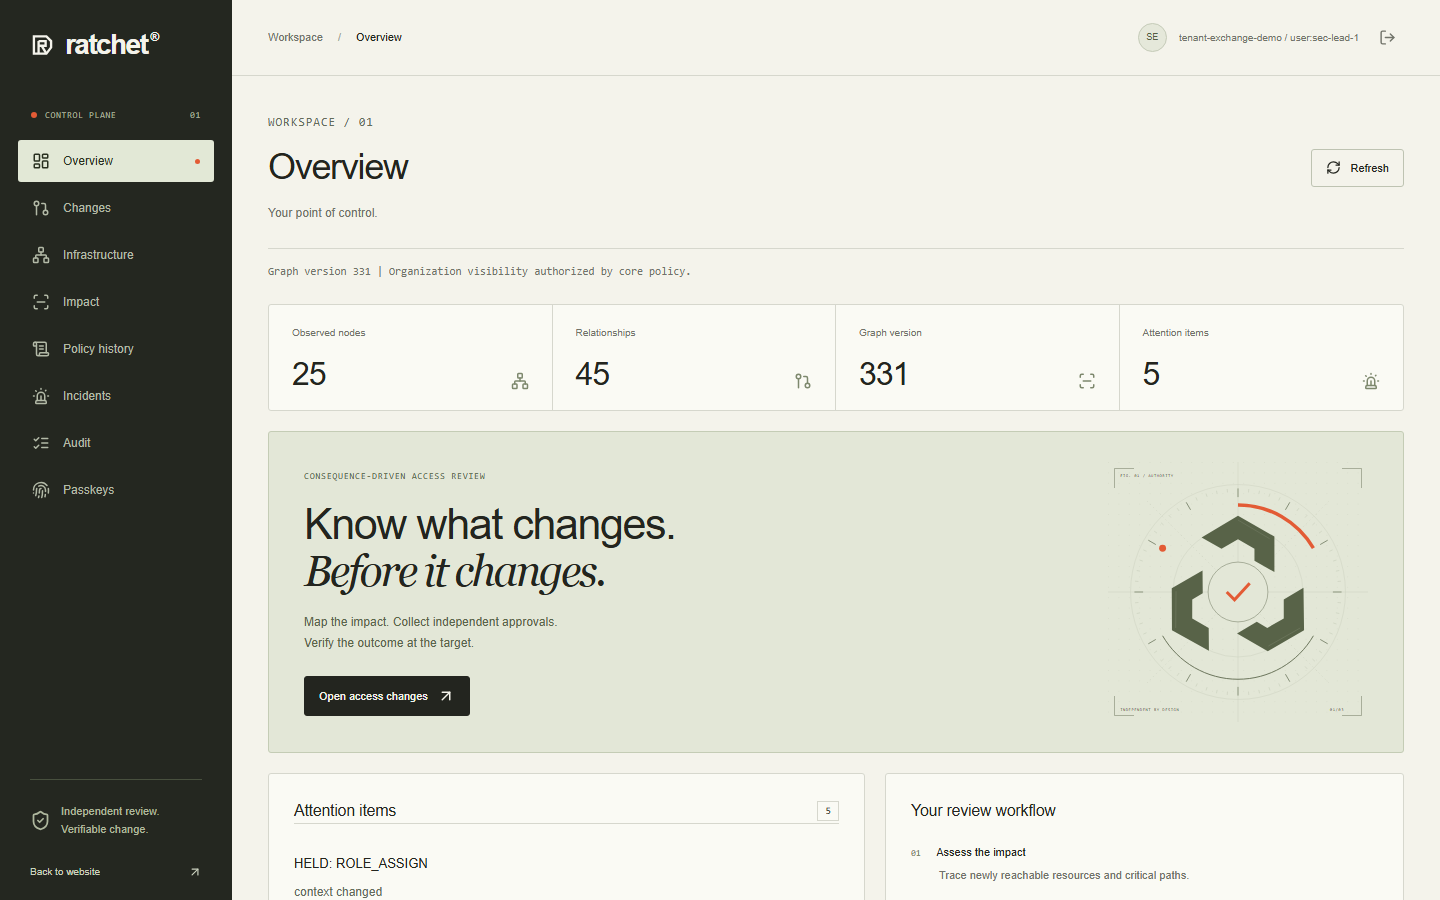
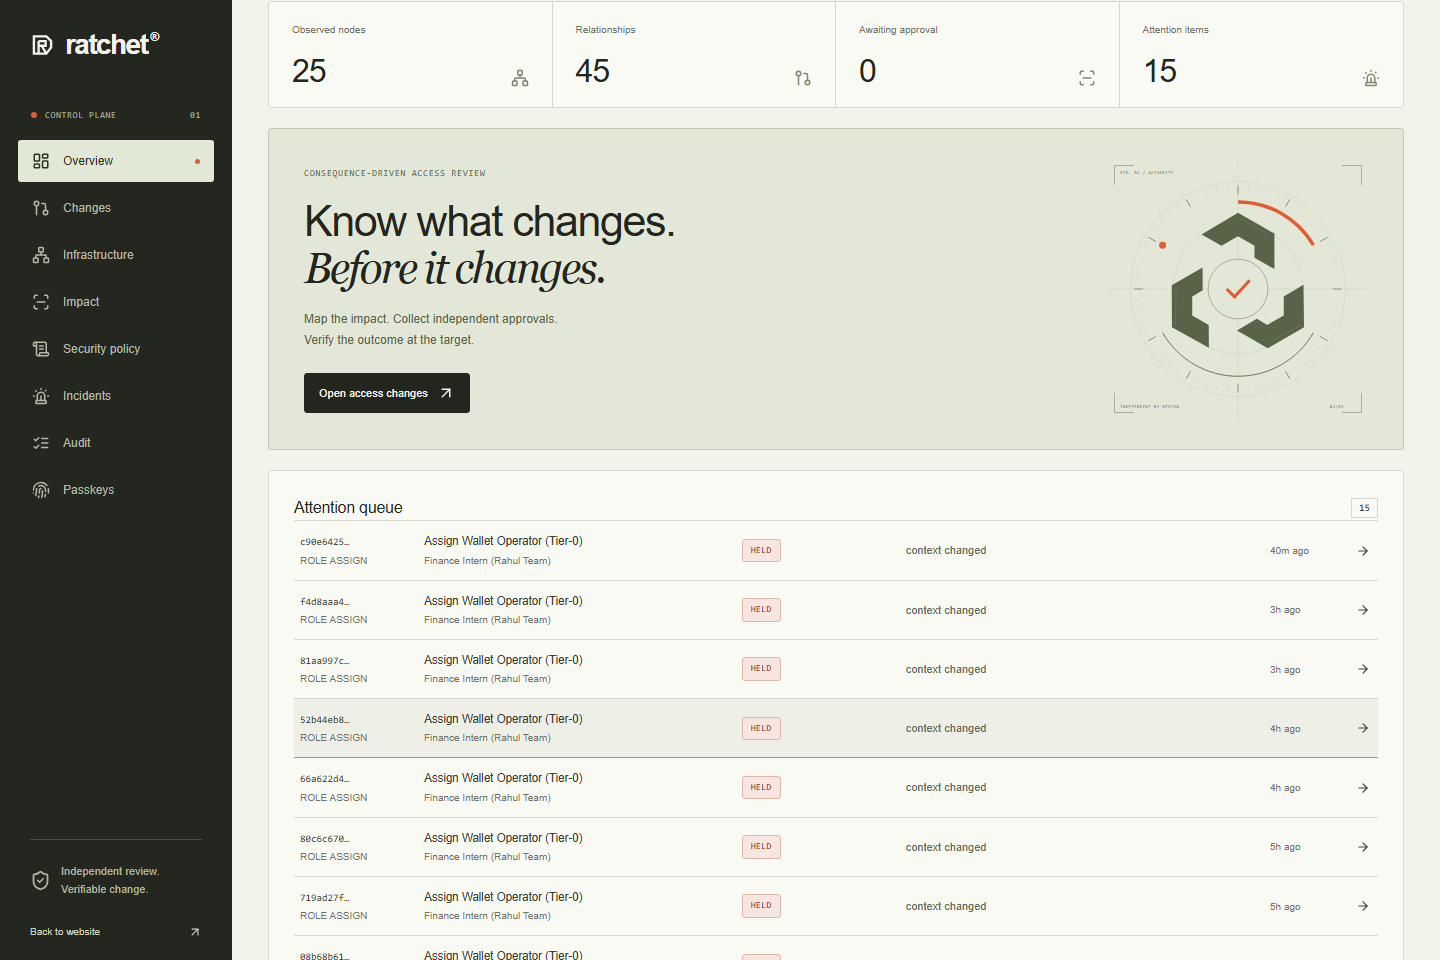
docs(readme): add the four pillars and place console screenshots in context
- Add a section for the four core capabilities from the PRD: Independent
  Security Authority, Permission Change Review, Impact and Blast-Radius Review
  and Emergency Containment, each shown with its console workspace
- Replace the screenshot gallery with images placed beside the text they
  illustrate: policy rules and Authority, change review and decision evidence,
  impact simulation, access graph and entity inspector, audit chain
  verification, restricted views, passkeys and the overview
- Refresh all screenshots from the current console and remove obsolete ones

diff --git a/README.md b/README.md
@@ -103,59 +103,94 @@ RATCHET's demo recreates this shape on a simulated crypto exchange. A compromise
 
 ---
 
-## Capabilities
+## The four pillars
 
-| Capability | Where to see it |
+RATCHET is built around four core capabilities. Each one has its own workspace in the console.
+
+### 1. Independent Security Authority
+
+The rules that protect critical systems decide who may create an administrator, change access to a critical system, change an approval rule or weaken a safeguard. Those rules are governed by a **separate authority**, not by the production systems they protect. A policy bundle or approver registry changes only when the **current** M-of-N quorum signs it, so a compromised production account cannot rewrite the protections that are supposed to constrain it.
+
+The **Security policy** workspace reads the active rules straight from the signed policy bundle the core verified. It shows them in the order they are evaluated, with the resource owners they name:
+
+<p align="center"><img src="docs/images/policy-rules.png" alt="Active policy rules parsed from the signed change.rego, in evaluation order" width="900"></p>
+
+Alongside the rules, it shows the Authority behind them: its members, the 2-of-2 quorum, the active bundle with its hash and both signatures.
+
+<p align="center"><img src="docs/images/policy-authority.png" alt="Independent Authority: members, quorum, signed policy bundle and signatures" width="900"></p>
+
+### 2. Permission Change Review
+
+Every request to increase or alter access is treated as a decision that deserves review. It covers who is asking, what they already have, what they want, why, and what the change would enable. The signed policy then decides:
+
+| Outcome | When |
 |---|---|
-| Consequence assessment: newly reachable resources, tier-0 paths, changed powers, weakened safeguards | Console › Changes and Impact |
-| Independent approval with passkeys (WebAuthn). The browser verifies the exact canonical envelope before signing. | Console › Changes › *Review exact change* |
-| Self-approval, duplicate approval and insufficient quorum refused (owner quorum 1, tier-0 quorum 2) | Demo walkthrough |
-| Signed commands to the target plus independent read-back before `EXECUTED` | Real HTTP probes change between 403 and 200 |
-| Tamper-evident, hash-linked audit ledger | Console › Audit |
-| Reviewed revocation that restores the starting access | Demo walkthrough |
-| Restricted, server-redacted views for requesters and owners | Requester cannot list the organisation graph |
-| Independent Authority: M-of-N governed policy and approver registry, separate database | `completion-a` profile, Console › Security policy |
-| Minimum-disruption containment: weighted min-cut over the graph, priority revocation actions, incident lifecycle | `internal/graph/containment.go`, Console › Incidents |
-| Typed restoration flows with fresh independent review | `internal/workflow/execution.go` |
-| Temporary-access expiry and drift-watch correction | `internal/connector`, `internal/workflow` |
-| Kubernetes RBAC adapter and fail-closed admission webhook | `internal/connector/k8s`, `cmd/ratchet-k8s-webhook` |
-| Offline audit-chain and proof-bundle verification | `ratchetctl audit verify` |
+| **Allow** | Graph analysis proves the change only reduces access |
+| **Require independent approval** | The change is legitimate but too sensitive to approve alone, for example one resource owner, or two security leads for any new tier-0 path |
+| **Hold** | More context is needed, or the situation changed after submission |
+| **Reject** | The change is not allowed, for example weakening a tier-0 safeguard |
+
+A requester can never approve their own escalation, and every approval is bound by passkey to the exact change digest. The **Changes** workspace lists every request with its decision and status. Selecting one opens the change inspector beside the table:
+
+<p align="center"><img src="docs/images/changes-workspace.png" alt="Changes workspace: request table with status filters and the change inspector" width="900"></p>
+
+### 3. Impact and Blast-Radius Review
+
+Before a sensitive change is accepted, RATCHET shows what it would actually do: which resources become reachable, whether a new route to a tier-0 asset appears, which identities could be taken over, which safeguards weaken and how the blast radius changes in each criticality tier. A reviewer never has to guess what a powerful permission means.
+
+The **Impact** workspace simulates a draft change without submitting anything. Below, granting the wallet role to the finance intern is flagged as an escalation: the tier-0 blast radius grows, the wallet signer becomes reachable, and both new critical paths are drawn with the proposed edge highlighted.
+
+<p align="center"><img src="docs/images/impact-simulation.png" alt="Impact simulation: before and after access, blast radius per tier and the new tier-0 paths" width="900"></p>
+
+The **Infrastructure** workspace explains *why*. The access graph can be focused on any entity, traced to tier-0 assets and searched by category. Any identity, role or resource opens in a shared inspector with its access, relationships, safeguards and related changes.
+
+| Relationship graph around the tier-0 wallet signer | Entity inspector |
+|:---:|:---:|
+| <img src="docs/images/infrastructure-graph.png" alt="Interactive access graph focused on the wallet signer" width="560"> | <img src="docs/images/entity-inspector.png" alt="Entity inspector for the wallet signer" width="300"> |
+
+### 4. Emergency Containment
+
+When an account, service or permission is believed to be compromised, taking power away must be faster than granting it. RATCHET computes a **minimum-disruption cut**: the smallest set of revocations, session terminations or account restrictions that removes every route to a tier-0 asset while keeping unrelated, legitimate work running. The **Incidents** workspace shows each proposed action with its reason, alongside a business-continuity view of what keeps working and what is isolated. A responder confirms the exact plan with a passkey before it runs on the priority path.
+
+```mermaid
+flowchart LR
+    A["Compromised identity"] --> B["Every route to a tier-0 asset"]
+    B --> C["Minimum-disruption cut<br/>smallest set of revocations"]
+    C --> D["Business continuity<br/>what keeps working · what is isolated"]
+    D --> E["Responder confirms the exact plan<br/>with a passkey"]
+    E --> F["Priority execution<br/>and target read-back"]
+    F --> G["Incident record<br/>in the audit ledger"]
+    G --> H["Restoration only through a<br/>fresh, independently reviewed request"]
+    style C fill:#16241b,stroke:#22c55e,color:#fff
+    style E fill:#1e1b4b,stroke:#818cf8,color:#fff
+```
+
+Containment is accountable: it records who initiated the response, what was restricted and why, and what must happen before normal access is restored.
 
 ---
 
-## Screenshots
+## Capabilities
 
-### Public site
+The landing page walks through the eight console workspaces as you scroll:
 
-| Landing page | The protocol |
-|:---:|:---:|
-| <img src="docs/images/landing-hero.png" alt="Landing page hero" width="440"> | <img src="docs/images/landing-protocol.png" alt="Landing page protocol section" width="440"> |
+<p align="center"><img src="docs/images/landing-tour.png" alt="Landing page tour: eight workspaces, one chain of evidence" width="900"></p>
 
-### Operator console
-
-| Overview, organisation-wide view of a security lead | Infrastructure: observed authorisation graph |
-|:---:|:---:|
-| <img src="docs/images/console-overview.png" alt="Console overview with graph statistics" width="440"> | <img src="docs/images/console-infrastructure.png" alt="Infrastructure graph nodes with criticality tiers" width="440"> |
-| **Audit: one wallet grant from request to verified execution** | **Sign-in** |
-| <img src="docs/images/console-audit-trail.png" alt="Hash-linked audit events for one change" width="440"> | <img src="docs/images/console-sign-in.png" alt="Console sign-in" width="440"> |
-
-The audit view shows the two separate `ChangeApprovalRecorded` events required by the tier-0 quorum, followed by `ChangeExecuting` and `ChangeExecuted`. Each event carries its own hash in the chain.
-
-### Recorded walkthrough
-
-<details>
-<summary><b>Four key moments from the recorded demo rehearsal (click to expand)</b></summary>
-<br>
-
-These frames come from the recorded presenter rehearsal and show the console's dark theme.
-
-| 1 · A valid session cannot approve its own escalation | 2 · The owner reviews the exact consequence |
-|:---:|:---:|
-| <img src="docs/images/walkthrough-1-self-approval-refused.png" alt="Self approval refused" width="440"> | <img src="docs/images/walkthrough-2-owner-review.png" alt="Owner reviewing newly reachable resources" width="440"> |
-| **3 · Tier-0 access: one approval is not enough** | **4 · Quorum reached, execution independently verified** |
-| <img src="docs/images/walkthrough-3-one-of-two.png" alt="One of two approvals recorded; 2 new tier-0 paths" width="440"> | <img src="docs/images/walkthrough-4-quorum-executed.png" alt="Wallet role executed after two approvals" width="440"> |
-
-</details>
+| Capability | Where to see it |
+|---|---|
+| Consequence assessment: newly reachable resources, tier-0 paths, changed powers, weakened safeguards, blast radius per tier | Changes inspector · Impact |
+| Independent approval with passkeys (WebAuthn). The browser verifies the exact canonical envelope before signing. | Changes › *Review and approve* |
+| Self-approval, duplicate approval and insufficient quorum refused (owner quorum 1, tier-0 quorum 2) | Changes inspector (eligible and excluded approvers) · Demo walkthrough |
+| Every decision explained by the signed policy rule that produced it, with graph version and policy bundle hash | Changes inspector · Security policy |
+| Signed commands to the target plus independent read-back before `EXECUTED` | Changes timeline · real HTTP probes change between 403 and 200 |
+| Interactive access graph: focus, neighbourhoods, tier-0 tracing, reach and takeover relationships | Infrastructure |
+| Tamper-evident, hash-linked audit ledger, re-verified end to end in the browser | Audit › *Verify audit chain* |
+| Reviewed revocation that restores the starting access | Demo walkthrough |
+| Restricted, server-redacted views for requesters and owners | Every workspace |
+| Independent Authority: M-of-N governed policy and approver registry | Security policy |
+| Minimum-disruption containment with business continuity, and typed restoration through fresh review | Incidents |
+| Temporary-access expiry and drift-watch correction | Changes (duration and expiry status) |
+| Kubernetes RBAC adapter and fail-closed admission webhook | `internal/connector/k8s`, `cmd/ratchet-k8s-webhook` |
+| Offline audit-chain and proof-bundle verification | `ratchetctl audit verify` |
 
 ---
 
@@ -232,7 +267,19 @@ challenge = SHA-256( "RATCHET_APPROVAL_V1:" ‖ tenant ‖ actor ‖ change_dige
 change_digest = SHA-256( RFC 8785 canonical JSON of the exact approval envelope )
 ```
 
+<img src="docs/images/change-inspector.png" alt="Change inspector: decision explanation, approval requirements, impact and recorded timeline" width="290" align="right">
+
 The browser recomputes `change_digest` independently, in TypeScript and with the same golden test vectors as the Go backend, before it asks the authenticator to sign. If the server shows one change and signs another, the browser refuses.
+
+The change inspector shows everything bound into that digest for a real tier-0 request:
+
+- the decision and the policy rule that produced it, here rule 7 of the signed `change.rego`;
+- the graph version and policy bundle hash it was assessed against;
+- who may approve, and who is excluded, starting with the requester;
+- the access the change adds and its new tier-0 paths;
+- the ledger events from submission to verified execution.
+
+<br clear="right">
 
 ### Tamper-evident audit ledger
 
@@ -245,6 +292,10 @@ flowchart LR
 ```
 
 Changing, removing or reordering any event breaks every later hash. `ratchetctl audit verify --expected-tip=<hex>` also detects a ledger that has been cut short.
+
+The **Audit** workspace does the same check in the browser. *Verify audit chain* exports the canonical bytes of every event, recomputes each hash, and compares the end of the chain with the server's snapshot:
+
+<p align="center"><img src="docs/images/audit-verification.png" alt="Audit chain verified in the browser: every event re-hashed and matched to the server snapshot" width="900"></p>
 
 ---
 
@@ -340,6 +391,10 @@ These rules are enforced in code across the control plane.
 | **R8** | Minimum-disruption containment | Containment cuts paths to tier-0 assets while preserving unrelated access. |
 | **R9** | Proportional visibility | Requesters and owners get server-redacted views. Organisation-wide visibility requires policy authorisation. |
 
+R9 in practice: the requester account can submit and assess its own changes, but organisation-wide records such as Audit, Incidents and Security policy are refused by the core, and the console says so plainly.
+
+<p align="center"><img src="docs/images/restricted-view.png" alt="Restricted view shown to the requester for organisation-wide audit records" width="760"></p>
+
 ---
 
 ## Quick start
@@ -373,6 +428,8 @@ On first start, the launcher generates random database and broker secrets, creat
 1. **Trust the local HTTPS certificate.** Import `.local/prototype/ca.pem` into your OS or browser trust store. Certificate checks stay on, because passkeys need a secure origin.
 2. Open **https://localhost:8444** and sign in with an account from `users.json`.
 3. Under **Passkeys**, register a passkey for each reviewer with its one-use enrollment ticket. Run `python scripts/prototype.py invite --actor <actor>` to issue a fresh ticket.
+
+<p align="center"><img src="docs/images/passkeys.png" alt="Passkeys workspace: registered credentials and their status" width="860"></p>
 
 The [prototype runbook](docs/ishaan/prototype-runbook.md) covers credential management, restarts and recovery in detail.
 
@@ -409,6 +466,10 @@ npm run build      # type-check + production bundle
 ---
 
 ## Demo walkthrough
+
+Every account starts on the **Overview**. Its metrics and attention queue (held requests, pending approvals and active incidents, each with its reason and age) open straight into the record that needs attention:
+
+<p align="center"><img src="docs/images/console-overview.png" alt="Console overview: metrics and the attention queue" width="900"></p>
 
 The demo uses four independent accounts in the tenant `tenant-exchange-demo`:
 
